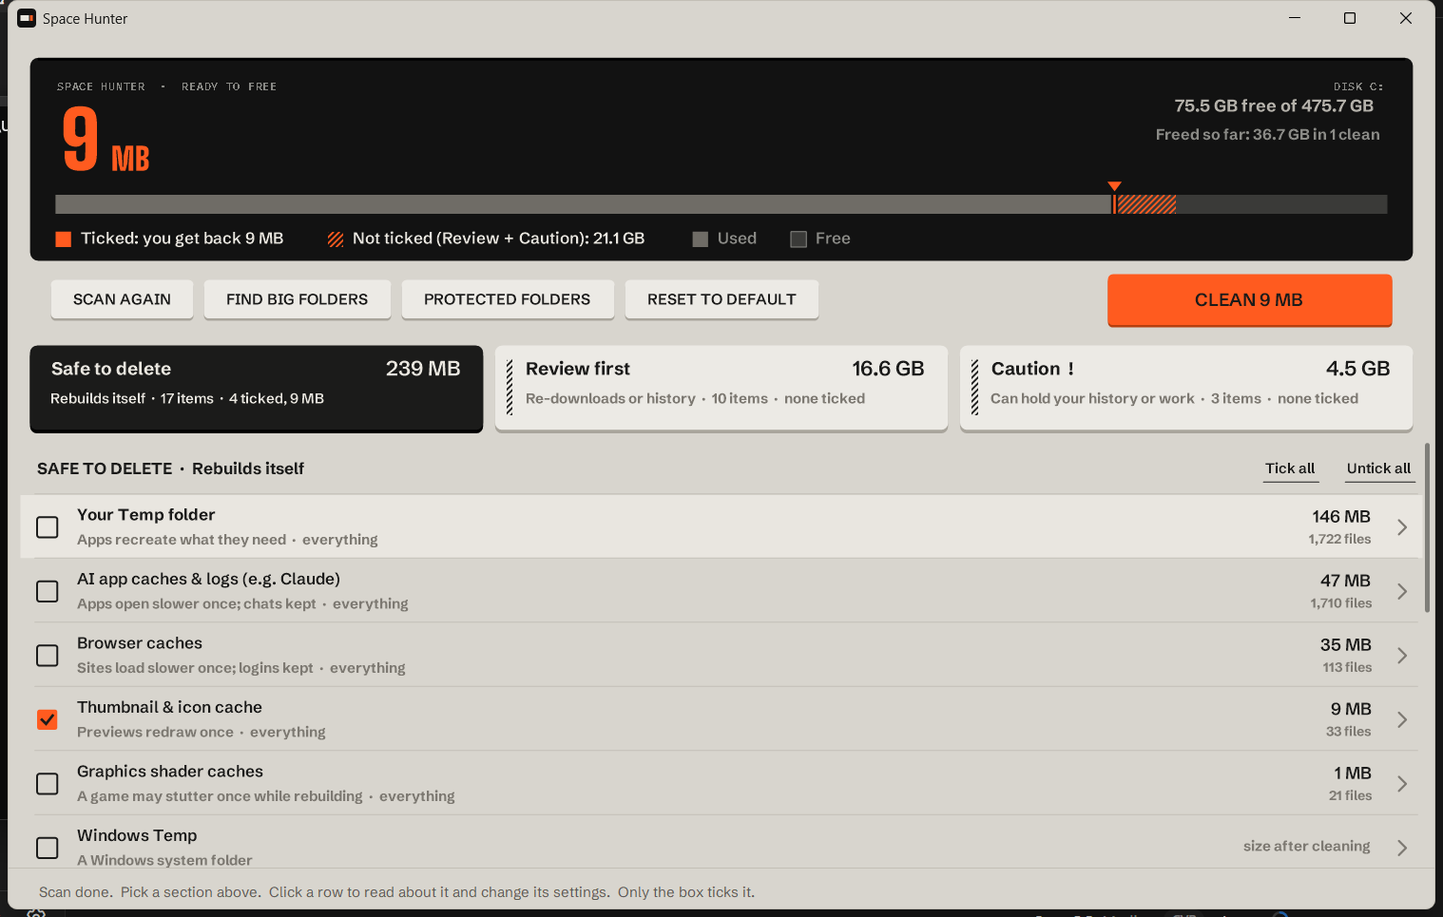
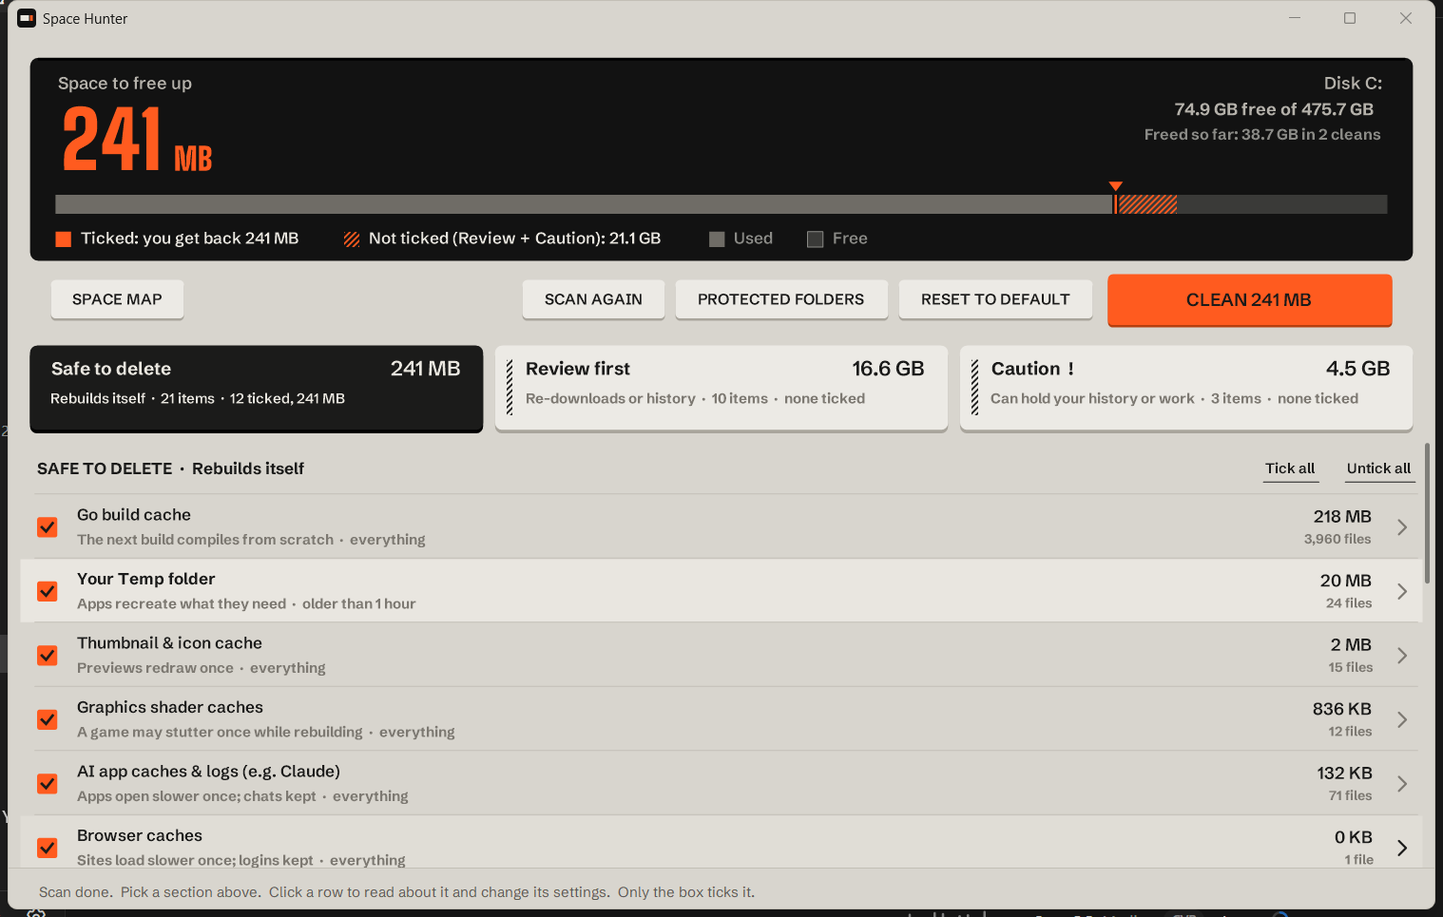
1.0.1: Space map gets its own key at the left; clearer display labels
- Find big folders is renamed Space map, alone at the left of the toolbar; Scan again, Protected folders and
  Reset to default sit together next to Clean (Windows and Mac)
- display labels in Schibsted SemiBold, brighter, sentence case: "Space to free up", "Disk C:", and the same on
  the Space map, cleaning and protected-folders displays
- VERSION 1.0.1, changelog, README screenshots

diff --git a/mac/Sources/SpaceHunter.swift b/mac/Sources/SpaceHunter.swift
@@ -64,7 +64,7 @@ enum Keep {   // protected folders: never shown, counted or cleaned
     static func isKept(_ path: String, _ list: [String]) -> Bool { list.contains { path == $0 || path.hasPrefix($0 + "/") } }
 }
 
-enum Custom {   // folders added to the cleanup list from Find big folders
+enum Custom {   // folders added to the cleanup list from the Space map
     static var all: [String] { Store2.lines("your-folders.txt") }
     static func add(_ p: String) { var a = all; if !a.contains(p) { a.append(p) }; Store2.write("your-folders.txt", a) }
     static func remove(_ p: String) { Store2.write("your-folders.txt", all.filter { $0 != p }) }
@@ -112,7 +112,7 @@ enum Engine {
                         kind: .contents, roots: [URL(fileURLWithPath: p)], defaultAge: 30 * day, ageMinutes: 30 * day, lastAge: 30 * day, checked: false)
             c.isCustom = true
             c.short = "Everything inside goes; the folder itself stays"
-            c.what = "A folder you added from Find big folders: " + p
+            c.what = "A folder you added from the Space map: " + p
             c.deletes = "Every file inside it (older than the age you set) and the sub-folders that end up empty. The folder itself stays."
             c.safeText = "Only you know. Open it and check before ticking. Protected folders inside it are skipped."
             c.after = "The files are gone, unless you choose Trash in the confirm window."
@@ -231,7 +231,7 @@ enum Engine {
         }
     }
 
-    // Can a folder from Find big folders be added to the cleanup list? nil = yes, otherwise the reason.
+    // Can a folder from the Space map be added to the cleanup list? nil = yes, otherwise the reason.
     static func canAdd(_ path: String) -> String? {
         let p = (path as NSString).standardizingPath
         if p == "/" || p.split(separator: "/").count <= 2 { return "a whole disk or user folder" }
@@ -712,7 +712,7 @@ struct SpaceHunterApp: App {
             MainView().environmentObject(state).frame(minWidth: 1000, minHeight: 680)
         }
         .windowStyle(.hiddenTitleBar)
-        Window("Find big folders", id: "finder") {
+        Window("Space map", id: "finder") {
             FinderView().environmentObject(state)
         }
         .defaultSize(width: 940, height: 760)
@@ -734,11 +734,12 @@ struct MainView: View {
         VStack(spacing: 0) {
             DisplayView().padding(.horizontal, 18).padding(.top, 34)
             HStack(spacing: 8) {
+                Button("Space map") { openWindow(id: "finder") }.buttonStyle(KeyStyle())
+                Spacer()
                 Button("Scan again") { state.scan() }.buttonStyle(KeyStyle()).disabled(state.scanning > 0)
-                Button("Find big folders") { openWindow(id: "finder") }.buttonStyle(KeyStyle())
                 Button("Protected folders") { openWindow(id: "protect") }.buttonStyle(KeyStyle())
                 Button("Reset to default") { state.resetAll() }.buttonStyle(KeyStyle())
-                Spacer()
+                    .padding(.trailing, 4)
                 Button("Clean \(Engine.fmt(state.selectedBytes))") { confirm = true }
                     .buttonStyle(KeyStyle(primary: true, big: true))
                     .disabled(state.scanning > 0 || state.selectedBytes == 0)
@@ -777,8 +778,8 @@ struct DisplayView: View {
         VStack(alignment: .leading, spacing: 0) {
             HStack(alignment: .top) {
                 VStack(alignment: .leading, spacing: 2) {
-                    Text(state.scanning > 0 ? "SPACE HUNTER  ·  SCANNING" : "SPACE HUNTER  ·  READY TO FREE")
-                        .font(Theme.monoSemi(10)).tracking(1.4).foregroundColor(Theme.screenMuted)
+                    Text(state.scanning > 0 ? "Scanning …" : "Space to free up")
+                        .font(Theme.semi(13)).foregroundColor(Color(hex: 0xB4B1AA))
                     HStack(alignment: .firstTextBaseline, spacing: 6) {
                         Text(p.0).font(Theme.display(76))
                         Text(p.1).font(Theme.display(28))
@@ -786,7 +787,7 @@ struct DisplayView: View {
                 }
                 Spacer()
                 VStack(alignment: .trailing, spacing: 6) {
-                    Text("DISK").font(Theme.monoSemi(10)).tracking(1.4).foregroundColor(Theme.screenMuted)
+                    Text("Disk").font(Theme.semi(13)).foregroundColor(Color(hex: 0xB4B1AA))
                     Text("\(Engine.fmt(state.disk.free)) free of \(Engine.fmt(state.disk.total))").font(Theme.sans(14)).foregroundColor(Color(hex: 0xB4B1AA))
                     if state.freedAll.0 > 0 {
                         Text("Freed so far: \(Engine.fmt(state.freedAll.0)) in \(state.freedAll.1) clean" + (state.freedAll.1 == 1 ? "" : "s"))
@@ -1161,8 +1162,8 @@ struct ProgressSheet: View {
         let fraction: CGFloat = state.cleanDone && !state.cleanStopped ? 1 : min(1, CGFloat(Double(state.freed + state.trashed) / Double(state.expected)))
         VStack(alignment: .leading, spacing: 10) {
             VStack(alignment: .leading, spacing: 4) {
-                Text(state.cleanDone ? (state.cleanStopped ? "STOPPED  ·  NOTHING ELSE WILL BE CLEANED" : "DONE  ·  ALL TICKED ITEMS") : "CLEANING  ·  " + state.currentItem)
-                    .font(Theme.monoSemi(10)).tracking(1.2).foregroundColor(Theme.screenMuted).lineLimit(1)
+                Text(state.cleanDone ? (state.cleanStopped ? "Stopped  ·  nothing else will be cleaned" : "Done  ·  all ticked items") : "Cleaning  ·  " + state.currentItem)
+                    .font(Theme.semi(12)).foregroundColor(Color(hex: 0xB4B1AA)).lineLimit(1)
                 HStack(alignment: .firstTextBaseline, spacing: 6) {
                     Text(p.0).font(Theme.display(60))
                     Text(p.1 + (binOnly ? " TO TRASH" : " FREED")).font(Theme.display(24))
@@ -1219,7 +1220,7 @@ struct ProtectView: View {
         let mine = Keep.all
         VStack(alignment: .leading, spacing: 10) {
             VStack(alignment: .leading, spacing: 4) {
-                Text("PROTECTED FOLDERS  ·  NEVER CLEANED, WHATEVER IS TICKED").font(Theme.monoSemi(10)).tracking(1.2).foregroundColor(Theme.screenMuted)
+                Text("Protected folders  ·  never cleaned, whatever is ticked").font(Theme.semi(12)).foregroundColor(Color(hex: 0xB4B1AA))
                 Text("\(mine.count) FOLDER" + (mine.count == 1 ? "" : "S")).font(Theme.display(44)).foregroundColor(Theme.orange)
                 Text("Yours, plus the places Space Hunter never touches.").font(Theme.sans(13)).foregroundColor(Theme.screenMuted)
             }
@@ -1258,7 +1259,7 @@ struct ProtectView: View {
     }
 }
 
-// MARK: - Find big folders
+// MARK: - Space map
 
 final class FolderNode: Identifiable {
     let id = UUID()
@@ -1323,7 +1324,7 @@ final class Scanner: ObservableObject {
     }
 }
 
-// The places Find big folders can measure: your home folder, then every disk (internal and external).
+// The places the Space map can measure: your home folder, then every disk (internal and external).
 struct VolumeChoice: Identifiable, Equatable {
     let id: String          // the path measured
     let name: String
@@ -1490,8 +1491,8 @@ struct FinderHeader: View {
     let target: Int64
     var body: some View {
         VStack(alignment: .leading, spacing: 6) {
-            Text(scanner.running ? "BIG FOLDERS  ·  COUNTING FILES" : "BIG FOLDERS  ·  LOOKING ONLY, NOTHING IS DELETED HERE")
-                .font(Theme.monoSemi(10)).tracking(1.2).foregroundColor(Theme.screenMuted)
+            Text(scanner.running ? "Space map  ·  counting files" : "Space map  ·  looking only, nothing is deleted here")
+                .font(Theme.semi(12)).foregroundColor(Color(hex: 0xB4B1AA))
             if scanner.running {
                 Text("\(scanner.scanned) FILES").font(Theme.display(52)).foregroundColor(Theme.orange)
                 ScanBar(done: scanner.scannedBytes, target: target).frame(height: 14)

diff --git a/windows/src/MainWindow.cs b/windows/src/MainWindow.cs
@@ -21,7 +21,7 @@ namespace SpaceHunter
         public int Cleans;
         public bool Scanning, Compact;
         public List<KeyValuePair<DateTime, long>> History = new List<KeyValuePair<DateTime, long>>();
-        Font fLabel = Theme.CMonoSemi(7.5f), fBig = Theme.CDisplay(50f), fUnit = Theme.CDisplay(20f), fDisk = Theme.CSans(11f),
+        Font fLabel = Theme.CSemi(11f), fHist = Theme.CSemi(10f), fBig = Theme.CDisplay(50f), fUnit = Theme.CDisplay(20f), fDisk = Theme.CSans(11f),
              fLegend = Theme.CSemi(10.5f), fSmall = Theme.CSans(9.5f);
 
         public float DesignHeight { get { return Compact ? 172 : 206; } }
@@ -33,11 +33,11 @@ namespace SpaceHunter
             using (var p = Theme.Round(new RectangleF(0.5f, 0.5f, W - 1, H - 1), 7)) using (var b = new SolidBrush(Theme.Screen)) g.FillPath(b, p);
             using (var pen = new Pen(Color.Black, 2)) g.DrawLine(pen, 7, 2, W - 7, 2);   // inset lip
             float pad = 22, right = W - pad;
-            using (var b = new SolidBrush(Theme.DisplayMuted))
+            using (var b = new SolidBrush(Color.FromArgb(0xB4, 0xB1, 0xAA)))
             {
-                g.DrawString(Scanning ? "SPACE HUNTER  ·  SCANNING" : "SPACE HUNTER  ·  READY TO FREE", fLabel, b, pad, 16);
-                var dl = "DISK " + Path.GetPathRoot(Engine.W).TrimEnd('\\'); var sz = g.MeasureString(dl, fLabel);
-                g.DrawString(dl, fLabel, b, right - sz.Width, 16);
+                g.DrawString(Scanning ? "Scanning ..." : "Space to free up", fLabel, b, pad, 13);
+                var dl = "Disk " + Path.GetPathRoot(Engine.W).TrimEnd('\\'); var sz = g.MeasureString(dl, fLabel);
+                g.DrawString(dl, fLabel, b, right - sz.Width, 13);
             }
             string num, unit; Theme.SizeParts(Selected, out num, out unit);
             using (var b = new SolidBrush(Theme.Orange))
@@ -47,7 +47,7 @@ namespace SpaceHunter
                 g.DrawString(unit, fUnit, b, pad - 6 + ns.Width - 8, 30 + ns.Height - g.MeasureString(unit, fUnit).Height - 13);
             }
             string disk = Total > 0 ? Engine.Fmt(Free) + " free of " + Engine.Fmt(Total) : "";
-            using (var b = new SolidBrush(Color.FromArgb(0xB4, 0xB1, 0xAA))) { var ds = g.MeasureString(disk, fDisk); g.DrawString(disk, fDisk, b, right - ds.Width, 32); }
+            using (var b = new SolidBrush(Color.FromArgb(0xB4, 0xB1, 0xAA))) { var ds = g.MeasureString(disk, fDisk); g.DrawString(disk, fDisk, b, right - ds.Width, 35); }
 
             // history: free space over time + everything freed so far
             if (!Compact && History.Count >= 2)
@@ -62,8 +62,8 @@ namespace SpaceHunter
                 using (var b = new SolidBrush(Theme.Orange)) { var lp = line[line.Count - 1]; g.FillEllipse(b, lp.X - 3, lp.Y - 3, 6, 6); }
                 using (var b = new SolidBrush(Theme.DisplayMuted))
                 {
-                    var hl = "FREE SPACE SINCE " + pts[0].Key.ToString("d MMM").ToUpperInvariant(); var hs = g.MeasureString(hl, fLabel);
-                    g.DrawString(hl, fLabel, b, right - hs.Width, sy + sh + 4);
+                    var hl = "Free space since " + pts[0].Key.ToString("d MMM"); var hs = g.MeasureString(hl, fHist);
+                    g.DrawString(hl, fHist, b, right - hs.Width, sy + sh + 3);
                 }
             }
             if (FreedAll > 0)
@@ -629,7 +629,7 @@ namespace SpaceHunter
             disp.Dock = DockStyle.Top; disp.Height = Theme.D(disp.DesignHeight);
             var top = new Panel { Dock = DockStyle.Top, Height = Theme.D(disp.DesignHeight + 18 + 64), Padding = Theme.Pad(18, 18, 18, 0), BackColor = Theme.Chassis };
             var keys = new Panel { Dock = DockStyle.Bottom, Height = Theme.D(64), BackColor = Theme.Chassis };
-            scanKey = new Key("scan again"); finderKey = new Key("find big folders"); protectKey = new Key("protected folders"); resetKey = new Key("reset to default");
+            scanKey = new Key("scan again"); finderKey = new Key("space map"); protectKey = new Key("protected folders"); resetKey = new Key("reset to default");
             cleanKey = new Key("clean", true);
             cleanKey.Font = Theme.Semi(11.5f); cleanKey.Height = Theme.D(46); cleanKey.MinimumSize = Theme.D(240, 46); cleanKey.FitWidth();
             keys.Controls.AddRange(new Control[] { scanKey, finderKey, protectKey, resetKey, cleanKey });
@@ -709,10 +709,13 @@ namespace SpaceHunter
 
         void PlaceKeys(Control keys)
         {
-            // Clean is the one big key, under the display's right edge; the quiet keys sit at the left.
+            // The Space map is a tool of its own, alone at the left. The cleaning keys sit together at the right:
+            // scan again, protected folders and reset to default lead into the one big Clean key.
+            int y = Theme.D(14);
             cleanKey.Location = new Point(keys.Width - cleanKey.Width - Theme.D(18), Theme.D(10));
-            int x = Theme.D(18), y = Theme.D(14);
-            foreach (var k in new[] { scanKey, finderKey, protectKey, resetKey }) { k.Location = new Point(x, y); x = k.Right + Theme.D(8); }
+            finderKey.Location = new Point(Theme.D(18), y);
+            int x = cleanKey.Left - Theme.D(12);
+            foreach (var k in new[] { resetKey, protectKey, scanKey }) { x -= k.Width; k.Location = new Point(x, y); x -= Theme.D(8); }
         }
 
         void ReadDisk()

diff --git a/windows/src/Finder.cs b/windows/src/Finder.cs
@@ -1,6 +1,6 @@
 // Copyright (c) 2026 Blesson Reji (knox-101). Space Hunter is free software under the GNU GPL v3 or later; see LICENSE.
 // SPDX-License-Identifier: GPL-3.0-or-later
-// Space Hunter (Windows) - Find big folders: drill down from a drive to whatever is big, see whether the cleanup
+// Space Hunter (Windows) - Space map: drill down from a drive to whatever is big, see whether the cleanup
 // list already covers it, and add a folder to the cleanup list. Nothing is deleted here.
 using System;
 using System.Collections.Generic;
@@ -27,12 +27,12 @@ namespace SpaceHunter
         readonly System.Windows.Forms.Timer tick = new System.Windows.Forms.Timer { Interval = 60 };
         public string SnapshotPath; readonly string startPath;
         public bool Added;
-        Font fLabel = Theme.CMonoSemi(7.5f), fBig = Theme.CDisplay(40f), fUnit = Theme.CDisplay(17f), fPath = Theme.CSans(11f), fSub = Theme.CSans(9.5f);
+        Font fLabel = Theme.CSemi(10f), fBig = Theme.CDisplay(40f), fUnit = Theme.CDisplay(17f), fPath = Theme.CSans(11f), fSub = Theme.CSans(9.5f);
 
         public FinderForm(List<Category> cats, string start = null)
         {
             startPath = start;
-            Theme.Window(this, "Space Hunter  ·  big folders", 940, 760);
+            Theme.Window(this, "Space Hunter  ·  Space map", 940, 760);
             MinimumSize = SizeFromClientSize(Theme.Fit(660, 480));
             StartPosition = FormStartPosition.CenterParent;
             list = new FolderListView(cats);
@@ -125,10 +125,10 @@ namespace SpaceHunter
             using (var p = Theme.Round(new RectangleF(0.5f, 0.5f, W - 1, H - 1), 7)) using (var b = new SolidBrush(Theme.Screen)) g.FillPath(b, p);
             string phase = BigFolders.Phase;
             bool waiting = scanning && (phase == "starting" || phase == "sorting" || BigFolders.Scanned == 0);
-            string label = !scanning ? "BIG FOLDERS  ·  LOOKING ONLY, NOTHING IS DELETED HERE"
-                         : "BIG FOLDERS  ·  " + (phase == "sorting" ? "SORTING FOLDERS BY SIZE" : waiting ? "GETTING READY TO MEASURE " + (drive ?? "").TrimEnd('\\')
-                                                                     : "MEASURING " + (drive ?? "").TrimEnd('\\') + "  ·  COUNTING FILES");
-            using (var b = new SolidBrush(Theme.DisplayMuted)) g.DrawString(label, fLabel, b, pad, 14);
+            string label = !scanning ? "Space map  ·  looking only, nothing is deleted here"
+                         : "Space map  ·  " + (phase == "sorting" ? "sorting folders by size" : waiting ? "getting ready to measure " + (drive ?? "").TrimEnd('\\')
+                                                                     : "measuring " + (drive ?? "").TrimEnd('\\') + "  ·  counting files");
+            using (var b = new SolidBrush(Color.FromArgb(0xB4, 0xB1, 0xAA))) g.DrawString(label, fLabel, b, pad, 12);
             if (waiting)   // a small turning arc at the top right: something is happening before the numbers start
             {
                 float cx = W - pad - 9, cy = 23, rr = 8;

diff --git a/windows/src/Engine.cs b/windows/src/Engine.cs
@@ -30,7 +30,7 @@ namespace SpaceHunter
         public bool Checked;
         public bool Recycle;                            // send to the Recycle Bin instead of deleting
         public bool AdminOnly;                          // a system folder: needs admin rights (the app starts with them)
-        public bool IsCustom;                           // a folder the user added from Find big folders
+        public bool IsCustom;                           // a folder the user added from the Space map
         public string What, Deletes, SafeText, After;   // expanded notes
         public string Short;                            // one line: what happens if cleared
         public long Files, Bytes;
@@ -96,7 +96,7 @@ namespace SpaceHunter
             // the items live in cleaners.json; only apps that are on this PC get a row
             var list = Cleaners.Load().Where(Cleaners.Installed).ToList();
 
-            // folders the user sent here from "Find big folders"
+            // folders the user sent here from the Space map
             Custom.Load();
             foreach (var p in Custom.All)
             {
@@ -106,7 +106,7 @@ namespace SpaceHunter
                 c.IsCustom = true; c.Checked = false;   // your folders start unticked, older than 30 days
                 c.Note = "A folder you added";
                 c.Short = "Everything inside goes; the folder itself stays";
-                c.What = "A folder you sent here from Find big folders: " + p;
+                c.What = "A folder you added from the Space map: " + p;
                 c.Deletes = "Every file inside it (older than the age you set), and the sub-folders that end up empty. The folder itself stays.";
                 c.SafeText = "Only you know. Open it and check before ticking. Protected folders inside it are skipped.";
                 c.After = "The files are gone, unless you choose Recycle Bin in the confirm window.";
@@ -416,7 +416,7 @@ namespace SpaceHunter
         static string Norm(string p) { try { return Path.GetFullPath(p).TrimEnd('\\'); } catch { return (p ?? "").TrimEnd('\\'); } }
         static bool Under(string child, string parent) { return child.Equals(parent, StringComparison.OrdinalIgnoreCase) || child.StartsWith(parent + "\\", StringComparison.OrdinalIgnoreCase); }
 
-        // Can a folder from Find big folders be added to the cleanup list? Never a drive, Windows, Program Files,
+        // Can a folder from the Space map be added to the cleanup list? Never a drive, Windows, Program Files,
         // or anything that holds the profile, AppData, Documents, Desktop, Downloads or OneDrive.
         public static bool CanAdd(string path, out string why)
         {
@@ -563,7 +563,7 @@ namespace SpaceHunter
         }
     }
 
-// Folders added to the cleanup list from Find big folders.
+// Folders added to the cleanup list from the Space map.
     static class Custom
     {
         static readonly object gate = new object();

diff --git a/windows/src/Dialogs.cs b/windows/src/Dialogs.cs
@@ -96,7 +96,7 @@ namespace SpaceHunter
         System.Windows.Forms.Timer tick;
         volatile int index; volatile bool done;
         public string SnapshotPath;
-        Font fLabel = Theme.CMonoSemi(7.5f), fBig = Theme.CDisplay(40f), fUnit = Theme.CDisplay(17f), fStat = Theme.CSemi(10.5f), fStat2 = Theme.CSans(10f);
+        Font fLabel = Theme.CSemi(10f), fBig = Theme.CDisplay(40f), fUnit = Theme.CDisplay(17f), fStat = Theme.CSemi(10.5f), fStat2 = Theme.CSans(10f);
 
         public ProgressForm(List<Category> selection, long expectedBytes)
         {
@@ -137,9 +137,9 @@ namespace SpaceHunter
             g.Clear(Theme.Chassis);
             using (var p = Theme.Round(new RectangleF(0.5f, 0.5f, W - 1, H - 1), 7)) using (var b = new SolidBrush(Theme.Screen)) g.FillPath(b, p);
             int i = Math.Min(index, sel.Count - 1);
-            string label = done ? (cnt.Cancel ? "STOPPED  ·  NOTHING ELSE WILL BE CLEANED" : "DONE  ·  ALL TICKED ITEMS")
-                                : "CLEANING  ·  ITEM " + (i + 1) + " OF " + sel.Count + "  ·  " + sel[i].Name.ToUpperInvariant();
-            using (var b = new SolidBrush(Theme.DisplayMuted)) g.DrawString(label, fLabel, b, pad, 14);
+            string label = done ? (cnt.Cancel ? "Stopped  ·  nothing else will be cleaned" : "Done  ·  all ticked items")
+                                : "Cleaning  ·  item " + (i + 1) + " of " + sel.Count + "  ·  " + sel[i].Name;
+            using (var b = new SolidBrush(Color.FromArgb(0xB4, 0xB1, 0xAA))) g.DrawString(label, fLabel, b, pad, 12);
             bool binOnly = cnt.Bytes == 0 && cnt.RecycledBytes > 0;
             string num, unit; Theme.SizeParts(binOnly ? cnt.RecycledBytes : cnt.Bytes, out num, out unit);
             using (var b = new SolidBrush(Theme.Orange))

diff --git a/windows/src/Protect.cs b/windows/src/Protect.cs
@@ -16,7 +16,7 @@ namespace SpaceHunter
         readonly FlowLayoutPanel rows = new FlowLayoutPanel();
         readonly Key addKey = new Key("add folder", true);
         public bool Changed;
-        Font fLabel = Theme.CMonoSemi(7.5f), fBig = Theme.CDisplay(40f), fSub = Theme.CSans(10f);
+        Font fLabel = Theme.CSemi(10f), fBig = Theme.CDisplay(40f), fSub = Theme.CSans(10f);
 
         public ProtectForm()
         {
@@ -52,7 +52,7 @@ namespace SpaceHunter
             var g = e.Graphics; float W = head.LW, H = head.LH, pad = 20;
             g.Clear(Theme.Chassis);
             using (var p = Theme.Round(new RectangleF(0.5f, 0.5f, W - 1, H - 1), 7)) using (var b = new SolidBrush(Theme.Screen)) g.FillPath(b, p);
-            using (var b = new SolidBrush(Theme.DisplayMuted)) g.DrawString("PROTECTED FOLDERS  ·  NEVER CLEANED, WHATEVER IS TICKED", fLabel, b, pad, 14);
+            using (var b = new SolidBrush(Color.FromArgb(0xB4, 0xB1, 0xAA))) g.DrawString("Protected folders  ·  never cleaned, whatever is ticked", fLabel, b, pad, 12);
             int n = Keep.All.Count;
             using (var b = new SolidBrush(Theme.Orange)) g.DrawString(n + (n == 1 ? " FOLDER" : " FOLDERS"), fBig, b, pad - 5, 28);
             using (var b = new SolidBrush(Theme.DisplayMuted)) g.DrawString("Yours, plus the places Space Hunter never touches.", fSub, b, pad, 104);

diff --git a/windows/src/DrivePicker.cs b/windows/src/DrivePicker.cs
@@ -1,6 +1,6 @@
 // Copyright (c) 2026 Blesson Reji (knox-101). Space Hunter is free software under the GNU GPL v3 or later; see LICENSE.
 // SPDX-License-Identifier: GPL-3.0-or-later
-// Space Hunter (Windows) - the drive key in Find big folders and the list it opens. One key however many drives
+// Space Hunter (Windows) - the drive key in the Space map and the list it opens. One key however many drives
 // there are; while the list is open the rest of the window dims, until a drive is picked or the list is dismissed.
 using System;
 using System.Collections.Generic;

diff --git a/CHANGELOG.md b/CHANGELOG.md
@@ -3,6 +3,14 @@
 All notable changes to Space Hunter. Versions follow [semantic versioning](https://semver.org): the last number is
 for fixes, the middle number is for new features, and the first number is for big changes.
 
+## 1.0.1 (2026-11-19)
+
+- **Find big folders is now the Space map**, with its own key at the left of the toolbar. Scan again, Protected
+  folders and Reset to default now sit together next to Clean.
+- Clearer labels on the dark display: "Space to free up" and "Disk C:" in the same type as the rest of the app.
+- The Space map shows a small turning indicator while it gets ready and while it sorts folders.
+- In the Space map, clicking **Added** takes a folder back off the cleanup list.
+
 ## 1.0.0 (2026-11-19)
 
 The first release, for Windows 10/11 and macOS 13+. What it does: see the [README](https://github.com/knox-101/space-hunter#readme).

diff --git a/README.md b/README.md
@@ -19,10 +19,10 @@ Windows: `SpaceHunter.exe` · Mac: `SpaceHunter-mac.zip` · first-run steps are 
 - **Explains each one**: click a row to see what it is, what gets deleted, whether it's safe and what happens after,
   and choose "only files older than N days" or "everything".
 - **Asks before cleaning**, with a choice of **Delete** or **Recycle Bin / Trash**, and shows each file as it goes.
-- **Finds big folders** anywhere on a drive (about 10 seconds for a full Windows drive), so you can add a cache
-  folder to the cleanup list.
+- **Space map**: see how your whole disk is split up, folder by folder, on any drive (about 10 seconds for a full
+  Windows drive), and add a cache folder to the cleanup list from there.
 
-![Find big folders](docs/screenshots/windows-big-folders.png)
+![The Space map](docs/screenshots/windows-space-map.png)
 
 ## Safe by design
 
